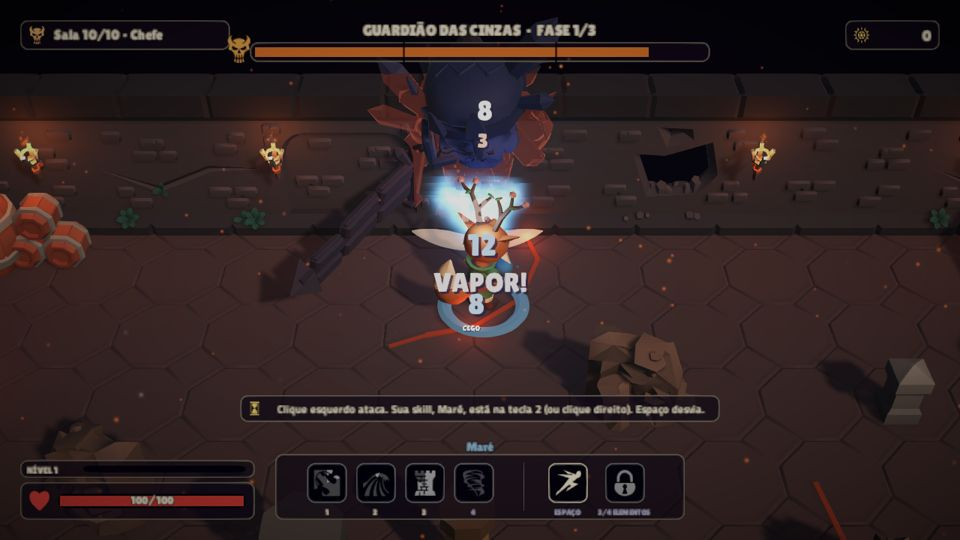
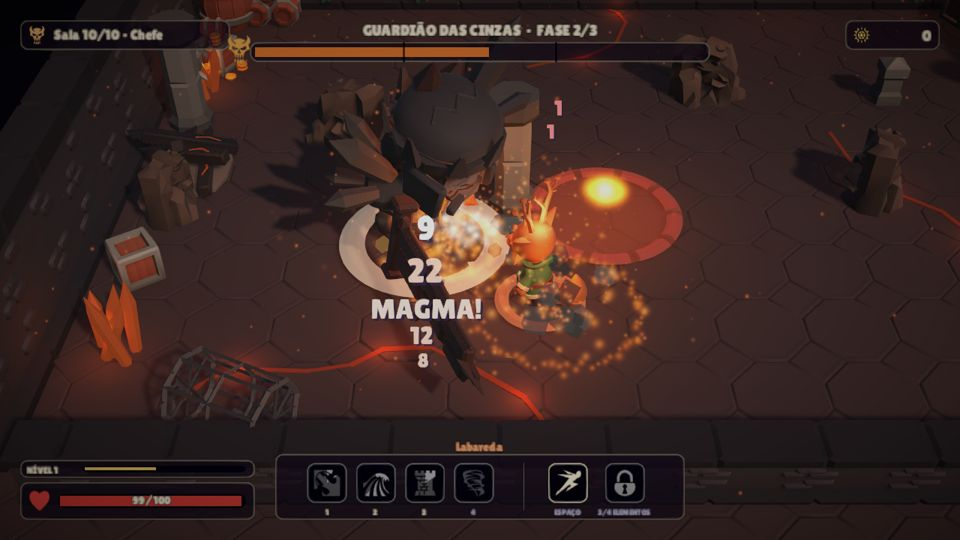
Itch: print do chefe trocado por um mais forte (Guardião com Magma), progresso

diff --git a/docs/progresso.html b/docs/progresso.html
@@ -62,7 +62,7 @@
     <h2>Rodada 22: Explosivo mais justo e a Elite diz o que tem</h2>
     <div class="meta"><span class="tag who">Enzo</span><span class="tag who">Leonardo</span><span class="tag who">Miguel</span><span class="tag ok">crítico de legibilidade dos inimigos (prints e fichas), votado pelos três críticos</span></div>
     <ul>
-      <li><b>Página do itch vista por um jurado (06h15):</b> um crítico fez o papel de jurado de jam, que decide em 60 s se baixa o jogo. O texto agora abre com gênero, plataforma e duração ("Roguelite de ação em 3D com câmera de cima, para jogar no navegador ou no Windows. Uma run leva de 10 a 15 minutos."), o gancho de marcar e detonar vem antes da tabela de teclas, com um resumo de uma linha dos controles, e o cenário que reage virou itens curtos. Nenhum print mostrava chefe nem reação: novo <code>docs/itch_prints/8_chefe.png</code> (Guardião na sala 10/10 com Vapor), e a ordem sugerida é onda, título, chefe, sala limpa, Santuário, loja. Ao gerar os prints do chefe apareceu um defeito de verdade: com o chefe no fundo da sala, os números de dano subiam até o teto da tela e paravam em cima da palavra da reação ("MAGMA!" com um "9" escrito por cima). Agora número que encosta no teto onde já há texto parado some na hora, e duas palavras longas lado a lado (MAGMA! e BLOQUEOU) se empilham em vez de encostar.<br><img src="img/s19_chefe_itch.jpg" alt="Print do chefe para o itch: Guardião das Cinzas na sala 10/10 com Vapor" style="max-width:100%"></li>
+      <li><b>Página do itch vista por um jurado (06h15):</b> um crítico fez o papel de jurado de jam, que decide em 60 s se baixa o jogo. O texto agora abre com gênero, plataforma e duração ("Roguelite de ação em 3D com câmera de cima, para jogar no navegador ou no Windows. Uma run leva de 10 a 15 minutos."), o gancho de marcar e detonar vem antes da tabela de teclas, com um resumo de uma linha dos controles, e o cenário que reage virou itens curtos. Nenhum print mostrava chefe nem reação: novo <code>docs/itch_prints/8_chefe.png</code> (Guardião na sala 10/10 com Magma), e a ordem sugerida é onda, título, chefe, sala limpa, Santuário, loja. Ao gerar os prints do chefe apareceu um defeito de verdade: com o chefe no fundo da sala, os números de dano subiam até o teto da tela e paravam em cima da palavra da reação ("MAGMA!" com um "9" escrito por cima). Agora número que encosta no teto onde já há texto parado some na hora, e duas palavras longas lado a lado (MAGMA! e BLOQUEOU) se empilham em vez de encostar. E o teto dos textos no ar desceu de 85% para 80% da tela: "ESCUDO!" ficava atrás da linha "ESCUDO — aguente firme" sob a barra do chefe.<br><img src="img/s19_chefe_itch.jpg" alt="Print do chefe para o itch: Guardião das Cinzas na sala 10/10 com Magma" style="max-width:100%"></li>
       <li><b>Grimório com o cenário:</b> o jogador e o cético perguntaram como alguém descobre essas regras. O Grimório ganhou o bloco CENÁRIO sob a maestria: "Água apaga velas e respiradouros e molha a pólvora; Fogo reacende; o vento apaga velas. A poça e a erupção marcam quem está em cima."<br><img src="img/grimorio.png" alt="Grimório com o bloco Cenário" style="max-width:100%"></li>
       <li><b>Rodada 31, o respiradouro entra nas reações (4 pontos, sem veto):</b> a erupção queimava os inimigos em cima mas não deixava marca, então para Brann e Vey o respiradouro era só perigo. Agora quem sobrevive à erupção fica com a marca de Fogo, como a poça d'água marca com Água: Terra nele vira Magma, Água vira Vapor, Ar vira Tempestade de Fogo. Atrair o bando para o respiradouro vale para todo herói. As condições do cético entraram: a erupção só marca quem está sem marca (não renova nem troca a de ninguém, para não virar reação em laço a cada 4,5 s) e não marca quem é de Fogo (Brasa Viva); a sonda com os quatro heróis foi rodada depois.</li>
       <li><b>Rodada 30, o vento apaga vela (6 pontos):</b> Fogo e Água mexiam no cenário, Terra e Ar quase nada. Agora a skill de Ar do Vey apaga as velas em volta, como soprar (mesma troca de malha acesa/apagada do pack e fiapo de fumaça, com o som do vento); as tochas grandes da parede continuam acesas, e o Fogo reacende tudo. É sabor, sem efeito na luta, como a Água nas velas. Descartado: Terra tampando o respiradouro (3 pontos; o cético: seria a Água com outra cor).</li>
